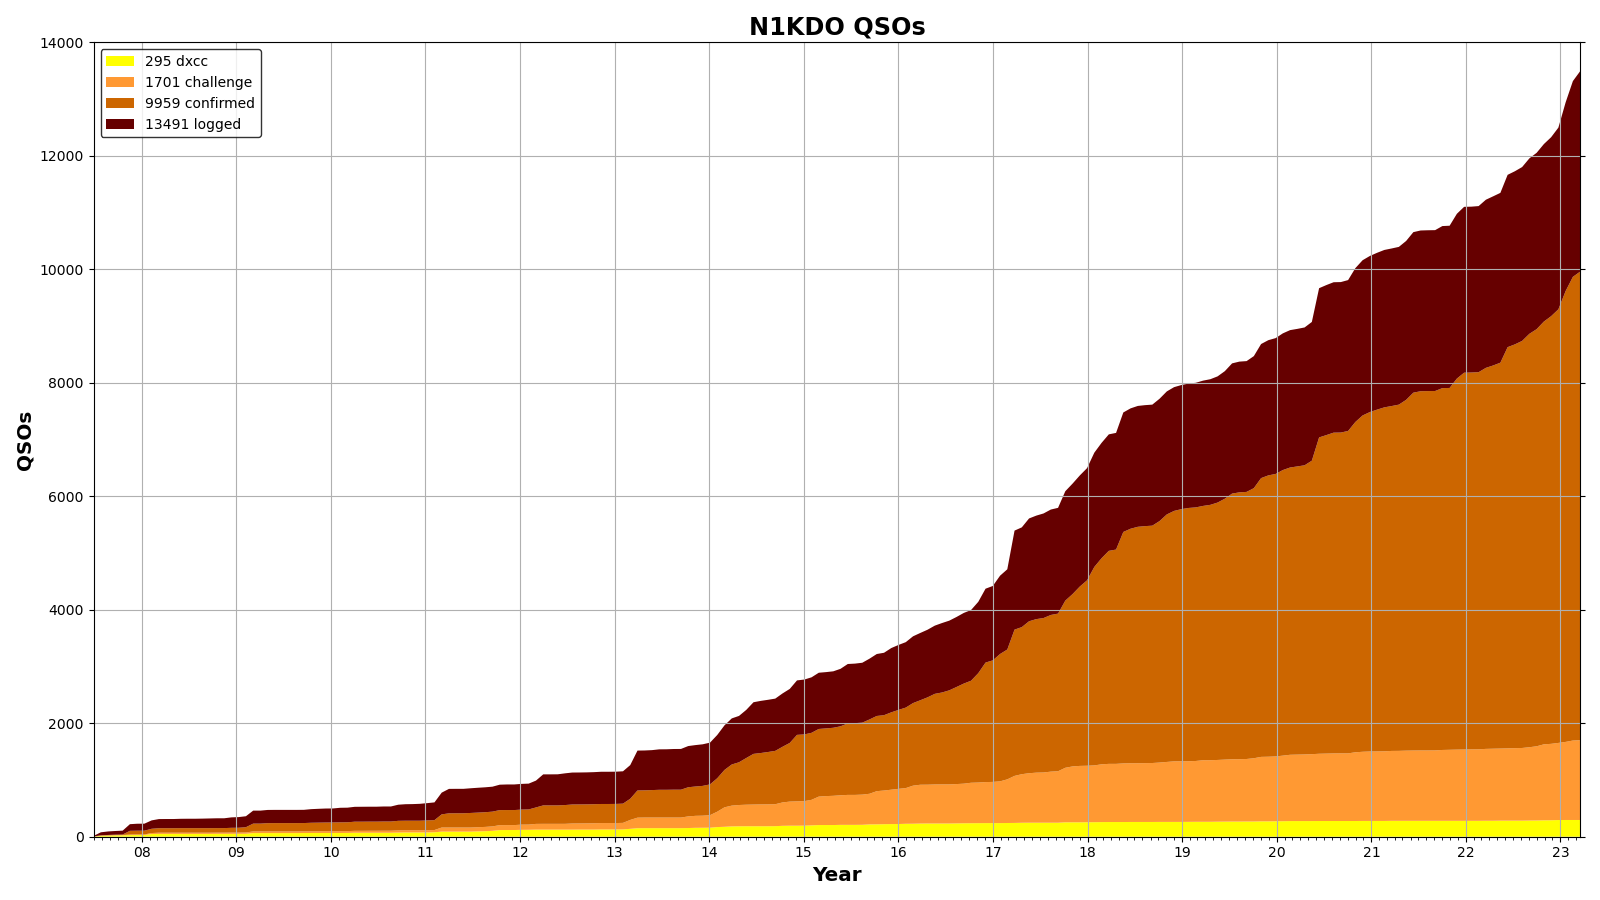
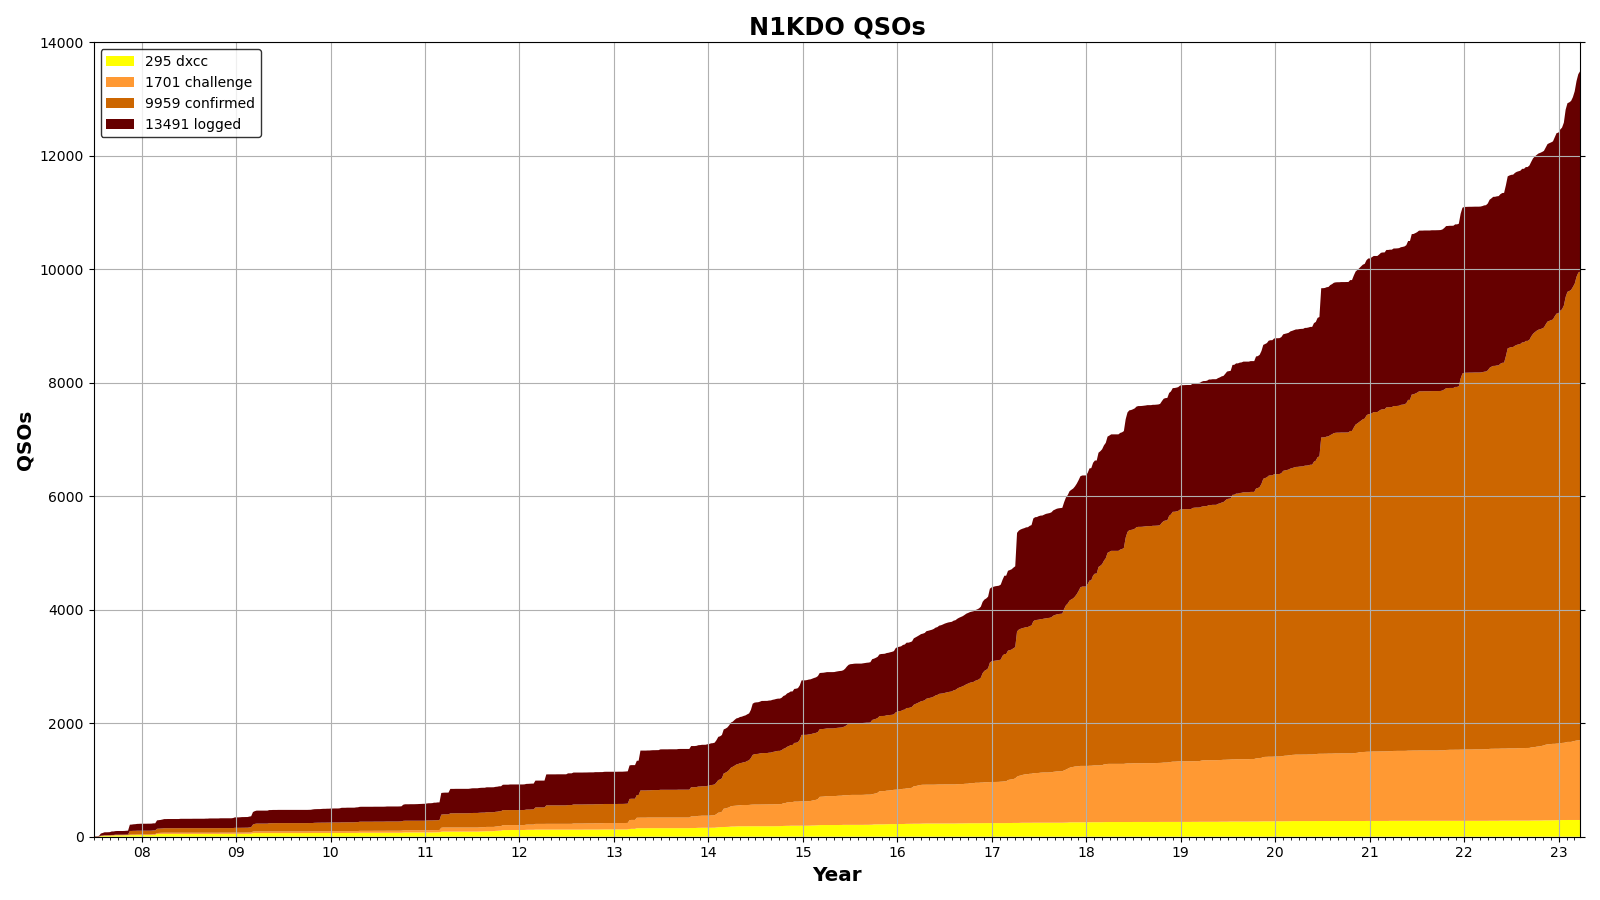
reorganize data some more

diff --git a/qso_charts.py b/qso_charts.py
@@ -23,26 +23,28 @@ BG = 'w'
 class BinnedQSOData:
 
     def __init__(self, first_datetime, last_datetime):
-        # always start on a day boundary
-        self.offset = int(first_datetime.replace(hour=0, minute=0, second=0, microsecond=0).timestamp())
+        self.offset = int(first_datetime.timestamp())
         days = (last_datetime - first_datetime)
         self.num_days = days.days + 1
 
-        if self.num_days <= 7:
+        if self.num_days <= 7:  # a week
             self.bin_size = 3600  # 1 hour
             self.num_bins = self.num_days * 24 + 1
             self.bin_size = 60 * 30  # 1/2 hour
             self.num_bins = self.num_days * 24 * 2 + 1
-        elif self.num_days <= 28:
+        elif self.num_days <= 28:  # a month
             self.bin_size = 3600 * 12  # 12 hours
             self.num_bins = self.num_days * 2 + 1
-        elif self.num_days <= 365:
+        elif self.num_days <= 365:  # 1 year
             self.bin_size = 86400  # 1 day
             self.num_bins = self.num_days + 1
-        elif self.num_days <= 3650:
+        elif self.num_days <= 3653:  # 10 years
             self.bin_size = 86400 * 7  # 7 days
             self.num_bins = self.num_days // 7 + 1
-        else:
+        elif self.num_days <= 7305:  # 20 years
+            self.bin_size = 86400 * 7  # 7 days
+            self.num_bins = self.num_days // 7 + 1
+        else:  # > 20 years
             self.bin_size = 86400 * 28  # 4 weeks
             self.num_bins = self.num_days // 28 + 1
 

diff --git a/adif_log_analyzer.py b/adif_log_analyzer.py
@@ -109,8 +109,14 @@ def crunch_data(qso_list):
     qso_list.sort(key=lambda q: q['app_lotw_qso_timestamp'])
 
     # now this can be binned.
-    bin_data = qso_charts.BinnedQSOData(qso_list[0]['app_lotw_qso_timestamp'],
-                                        qso_list[-1]['app_lotw_qso_timestamp'])
+    first_datetime = qso_list[0]['app_lotw_qso_timestamp']
+    last_datetime = qso_list[-1]['app_lotw_qso_timestamp']
+
+    # always start on a day boundary
+    first_datetime = first_datetime.replace(hour=0, minute=0, second=0, microsecond=0)
+    last_datetime = last_datetime.replace(hour=23, minute=59, second=59, microsecond=999999)
+
+    bin_data = qso_charts.BinnedQSOData(first_datetime, last_datetime)
 
     dxcc_confirmed = {}
     total_counts = {'date': 'total', 'worked': 0, 'confirmed': 0, 'new_dxcc': 0, 'challenge': 0}
@@ -488,8 +494,10 @@ def main():
 
     while len(filename) < 4:
         filename = input('Enter adif file name: ')
-        if not os.path.exists(filename):
-            filename = ''
+
+    filename = 'data/' + filename
+    if not os.path.exists(filename):
+        filename = ''
 
     adif_header, qso_list = adif.read_adif_file(filename)
     logging.info('read {} qsls from {}'.format(len(qso_list), filename))

diff --git a/README.md b/README.md
@@ -14,17 +14,17 @@ it can use DXKeeper ADIF, too.
 It uses Matplotlib to make some graphics that show your DXCC progress (as well as total QSOS)
 over time.
 
-![Example](N1KDO_dxcc_qsos.png)
+![Example](charts/N1KDO_dxcc_qsos.png)
 
-![Example](N1KDO_qsos_by_date.png)
+![Example](charts/N1KDO_qsos_by_date.png)
 
-![Example](N1KDO_qso_rate.png)
+![Example](charts/N1KDO_qso_rate.png)
 
-![Example](N1KDO_qsos_band_rate.png)
+![Example](charts/N1KDO_qsos_band_rate.png)
 
-![Example](N1KDO_challenge_bands_by_date.png)
+![Example](charts/N1KDO_challenge_bands_by_date.png)
 
-![Example](N1KDO_grids_map.png)
+![Example](charts/N1KDO_grids_map.png)
 
 I might do more work on this, or I might not.
  
@@ -37,5 +37,5 @@ It is still very much a work-in-progress.
 `docker build -t lotw .`
 `docker run -v output:/app/output/ -it lotw`
 
-n1kdo 20210411
+n1kdo 20230331
 
